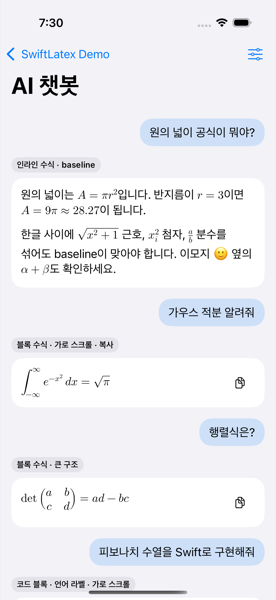
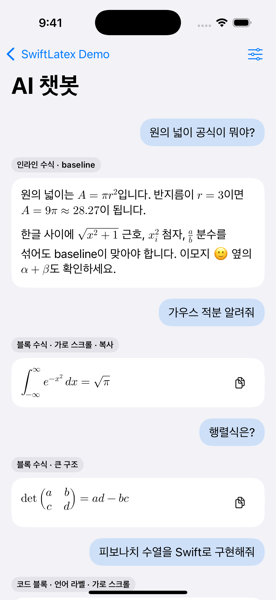
docs: prepare 0.3.0 beta release

Changed region(s): [[0.3478, 0.0, 0.6667, 0.06], [0.3188, 0.96, 0.6667, 0.99], [0.1449, 0.03, 0.2319, 0.06]]

diff --git a/README.md b/README.md
@@ -3,13 +3,14 @@
 [![Swift 6.0](https://img.shields.io/badge/Swift-6.0-orange.svg)](https://swift.org)
 [![Platform](https://img.shields.io/badge/platform-iOS%2016%2B-lightgrey.svg)](https://developer.apple.com/ios/)
 [![License](https://img.shields.io/badge/license-MIT-blue.svg)](LICENSE)
-[![Version](https://img.shields.io/badge/version-0.2.0%20beta-yellow.svg)](CHANGELOG.md)
+[![Version](https://img.shields.io/badge/version-0.3.0%20beta-yellow.svg)](CHANGELOG.md)
 
-> **0.2.0 beta** — SwiftUI와 UIKit이 같은 parse·raster·theme 경로를 공유한다.
+> **0.3.0 beta** — GFM 표, Notion 스타일 인라인 코드 칩, 연속 문서형 블록 편집
+> 데모를 추가하고 UIKit 렌더링 경로를 최적화했다.
 > `0.x`에서는 minor 버전에도 공개 API가 바뀔 수 있다. 변경 내역은
 > [CHANGELOG.md](CHANGELOG.md)를 본다.
 
-LLM 채팅 메시지를 네이티브로 렌더하는 Swift Package. Markdown, 인라인/블록
+LLM 채팅 메시지를 네이티브로 렌더하는 Swift Package. Markdown, GFM 표, 인라인/블록
 LaTeX 수식, 코드 블록을 하나의 뷰로 표시한다. SwiftUI는 `LatexMarkdownView`,
 UIKit은 네이티브 `LatexMarkdownUIView`를 쓴다 — 두 뷰는 같은 파서·수식 raster·
 generation 관리를 공유한다.
@@ -25,15 +26,16 @@ generation 관리를 공유한다.
 - 시스템 텍스트 선택, Dynamic Type, VoiceOver, light/dark를 그대로 따른다
   (선택 예외 한 건은 [알려진 제약](#알려진-제약) 참고).
 
-## 0.2.0 베타 핵심
+## 0.3.0 베타 핵심
 
-- **두 renderer, 하나의 결과** — SwiftUI `LatexMarkdownView`와 네이티브 UIKit
-  `LatexMarkdownUIView`가 같은 parser, 수식 raster cache, theme, 입력 보호 규칙을 쓴다.
-- **UIKit self-sizing** — 수식 hydration으로 높이가 바뀌면 `onContentSizeChange`가 해당
-  셀만 다시 측정하게 한다. 데모는 한 번 완성된 메시지 뷰를 ID별로 다시 붙여 스크롤 중
-  뷰 계층 재구성을 피한다.
-- **안전한 스트리밍** — 최신 누적 원문만 처리하고, cache miss에서는 이전 메시지 대신
-  최신 bounded fallback을 즉시 표시한다. 입력 크기와 비정상적으로 깊은 인용도 제한한다.
+- **GFM 표** — 헤더, 테두리, 열 정렬과 셀 안의 강조·링크·인라인 코드·수식을
+  SwiftUI와 UIKit에서 같은 파싱 결과로 렌더한다. 좁은 화면에서는 가로 스크롤한다.
+- **Notion 스타일 인라인 코드** — 둥근 칩, 테두리, 대비를 확보한 강조색으로 렌더한다.
+  SwiftUI iOS 18+와 UIKit TextKit 2가 같은 테마 값을 사용한다.
+- **UIKit 렌더링 최적화** — 변경되지 않은 블록과 fallback 텍스트 뷰를 재사용하고,
+  블록 수식은 벡터로 렌더해 불필요한 raster와 self-sizing 갱신을 줄였다.
+- **연속 문서형 블록 편집 데모** — 논리 블록은 유지하면서 하나의 TextKit 2
+  `UITextView`에서 선택·입력·undo/redo·인라인 서식을 처리한다.
 
 설계 문서: [DEVELOPMENT.md](DEVELOPMENT.md)
 
@@ -41,18 +43,17 @@ generation 관리를 공유한다.
 
 ## 스크린샷
 
-`Examples/SwiftLatexDemo`의 챗봇 화면. iPhone 16 Pro / iOS 18.6 실제 렌더다.
-인라인 코드는 이후 둥근 칩으로 바뀌었다 — 아래 이미지는 사각 배경 시절이다.
+`Examples/SwiftLatexDemo`의 실제 화면. iPhone 16 Pro / iOS 18.6에서 촬영했다.
 
 | 인라인·블록 수식 | Markdown 요소 |
 |---|---|
 | ![인라인과 블록 수식](Docs/screenshots/01-math.png) | ![Markdown 블록과 인라인 강조](Docs/screenshots/02-markdown.png) |
-| 문장 흐름 안에 baseline 정렬된 `\( A = \pi r^2 \)`, 가로 스크롤과 복사 버튼이 붙은 블록 수식(적분·행렬) | 헤딩, 굵게·기울임·취소선, 인라인 코드, 링크, 리스트, 인용, 구분선, GFM 표. `\*별표\*` 같은 escape 해제도 함께 |
+| 문장 흐름 안에 baseline 정렬된 `\( A = \pi r^2 \)`, 가로 스크롤과 복사 버튼이 붙은 블록 수식(적분·행렬) | 헤딩, 굵게·기울임·취소선, 둥근 인라인 코드 칩, 링크, 리스트, 인용, 구분선. `\*별표\*` 같은 escape 해제도 함께 |
 
-| 달러 수식 opt-in · fail-open | 코드 블록 (dark) |
+| GFM 표 | Notion 스타일 블록 편집 |
 |---|---|
-| ![달러 수식과 실패 시 원문 표시](Docs/screenshots/03-dollar-fallback.png) | ![코드 블록 dark mode](Docs/screenshots/04-code-dark.png) |
-| `$` opt-in이 꺼지면 전부 텍스트. `$5`, `$5 and $10`은 켜도 수식이 아니다. 잘못된 LaTeX는 구분자를 포함한 원문 그대로 | 언어 라벨과 복사 버튼, 긴 줄 가로 스크롤. 색은 light/dark를 따라간다 |
+| ![정렬과 인라인 콘텐츠를 포함한 GFM 표](Docs/screenshots/03-table.png) | ![하나의 연속 문서에서 편집하는 Notion 스타일 블록 편집기](Docs/screenshots/04-block-editor.png) |
+| 좌·중앙·우 정렬과 셀 안의 강조·인라인 코드·수식을 지원하며 좁은 화면에서는 가로 스크롤 | 하나의 연속 `UITextView`에서 제목·목록·할 일·인용·코드·수식을 편집하고 키보드 툴바로 블록과 인라인 서식을 바꾼다 |
 
 ---
 
@@ -62,8 +63,8 @@ generation 관리를 공유한다.
 
 ```swift
 dependencies: [
-    // 0.x 베타는 minor 버전에서도 공개 API가 바뀔 수 있으므로 0.2 minor로 고정한다.
-    .package(url: "https://github.com/Jimmy-Jung/SwiftLatex.git", .upToNextMinor(from: "0.2.0")),
+    // 0.x 베타는 minor 버전에서도 공개 API가 바뀔 수 있으므로 0.3 minor로 고정한다.
+    .package(url: "https://github.com/Jimmy-Jung/SwiftLatex.git", .upToNextMinor(from: "0.3.0")),
 ],
 targets: [
     .target(name: "MyApp", dependencies: ["SwiftLatex"]),
@@ -236,6 +237,12 @@ LatexMarkdownView(markdown: message, parsesDollarMath: true)
 ```swift
 let view = LatexMarkdownUIView(markdown: message, parsesDollarMath: false)
 view.theme = .default
+```
+
+Markdown chrome 없이 수식 하나만 필요한 UIKit 화면은 `LatexEquationUIView`를 쓴다.
+
+```swift
+let equationView = LatexEquationUIView(latex: #"\int_0^1 x^2 \, dx"#)
 ```
 
 `markdown` setter는 입력 보호 상한을 적용한다. 따라서 getter는 원문이 아니라 실제로
